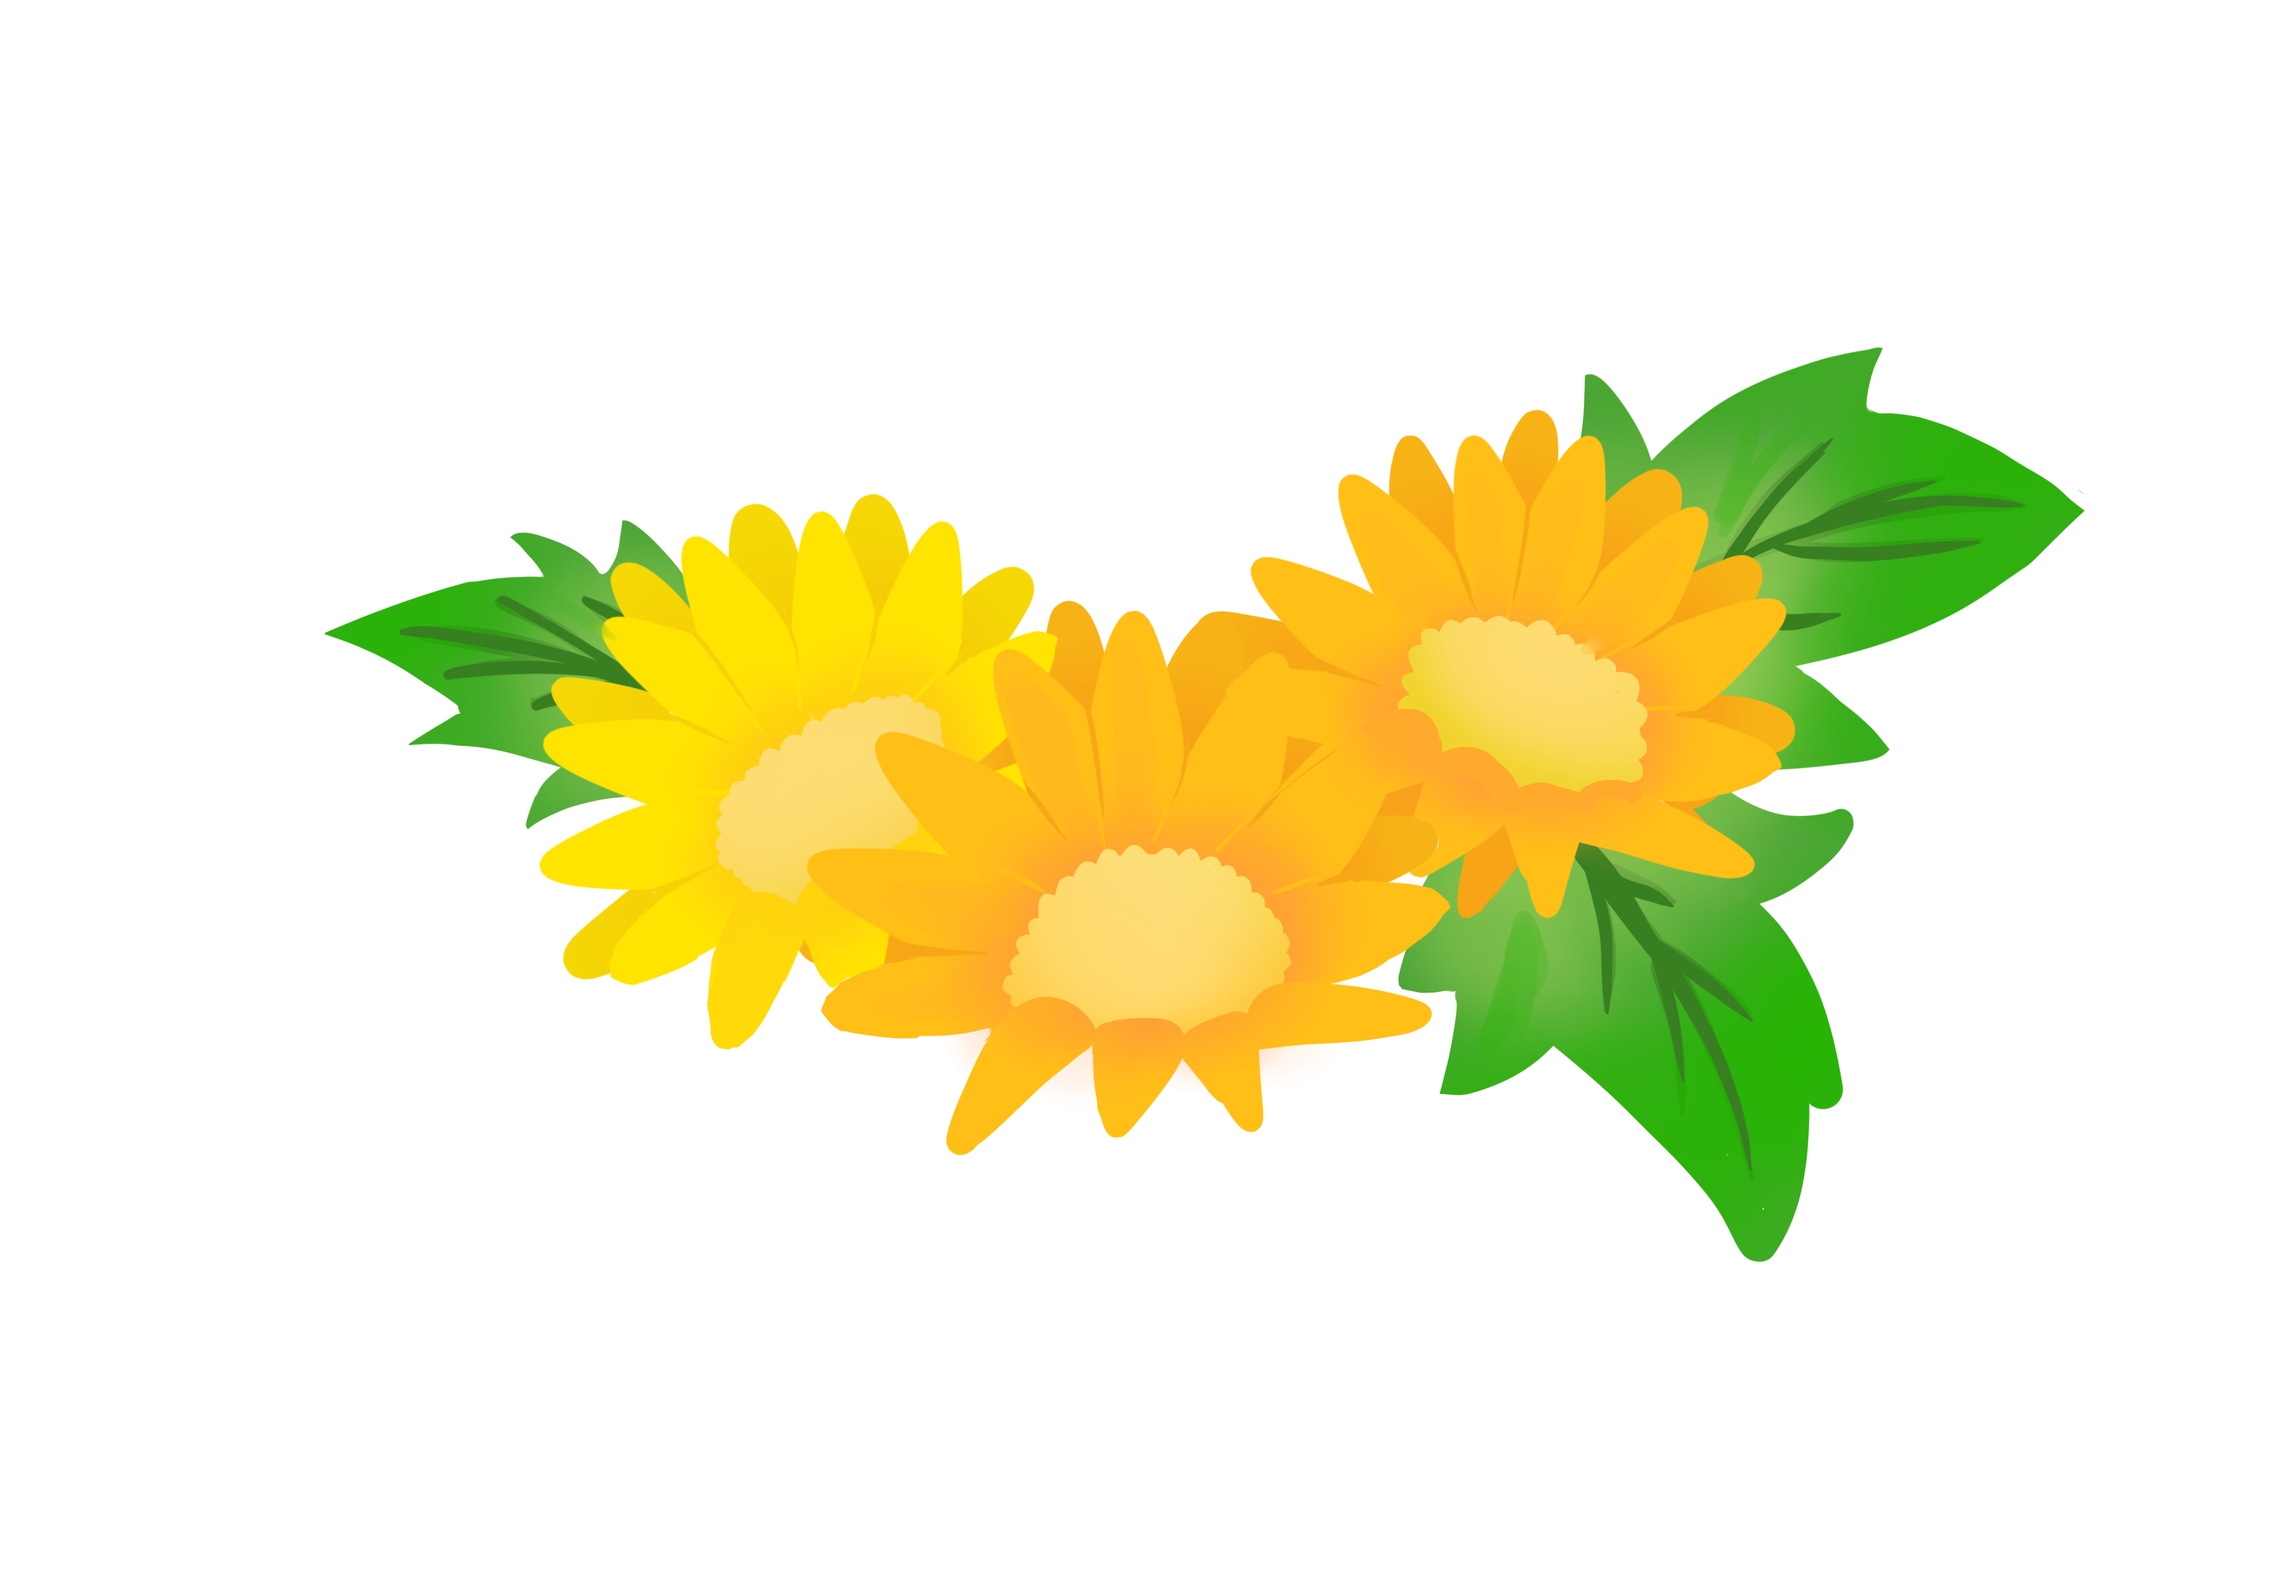
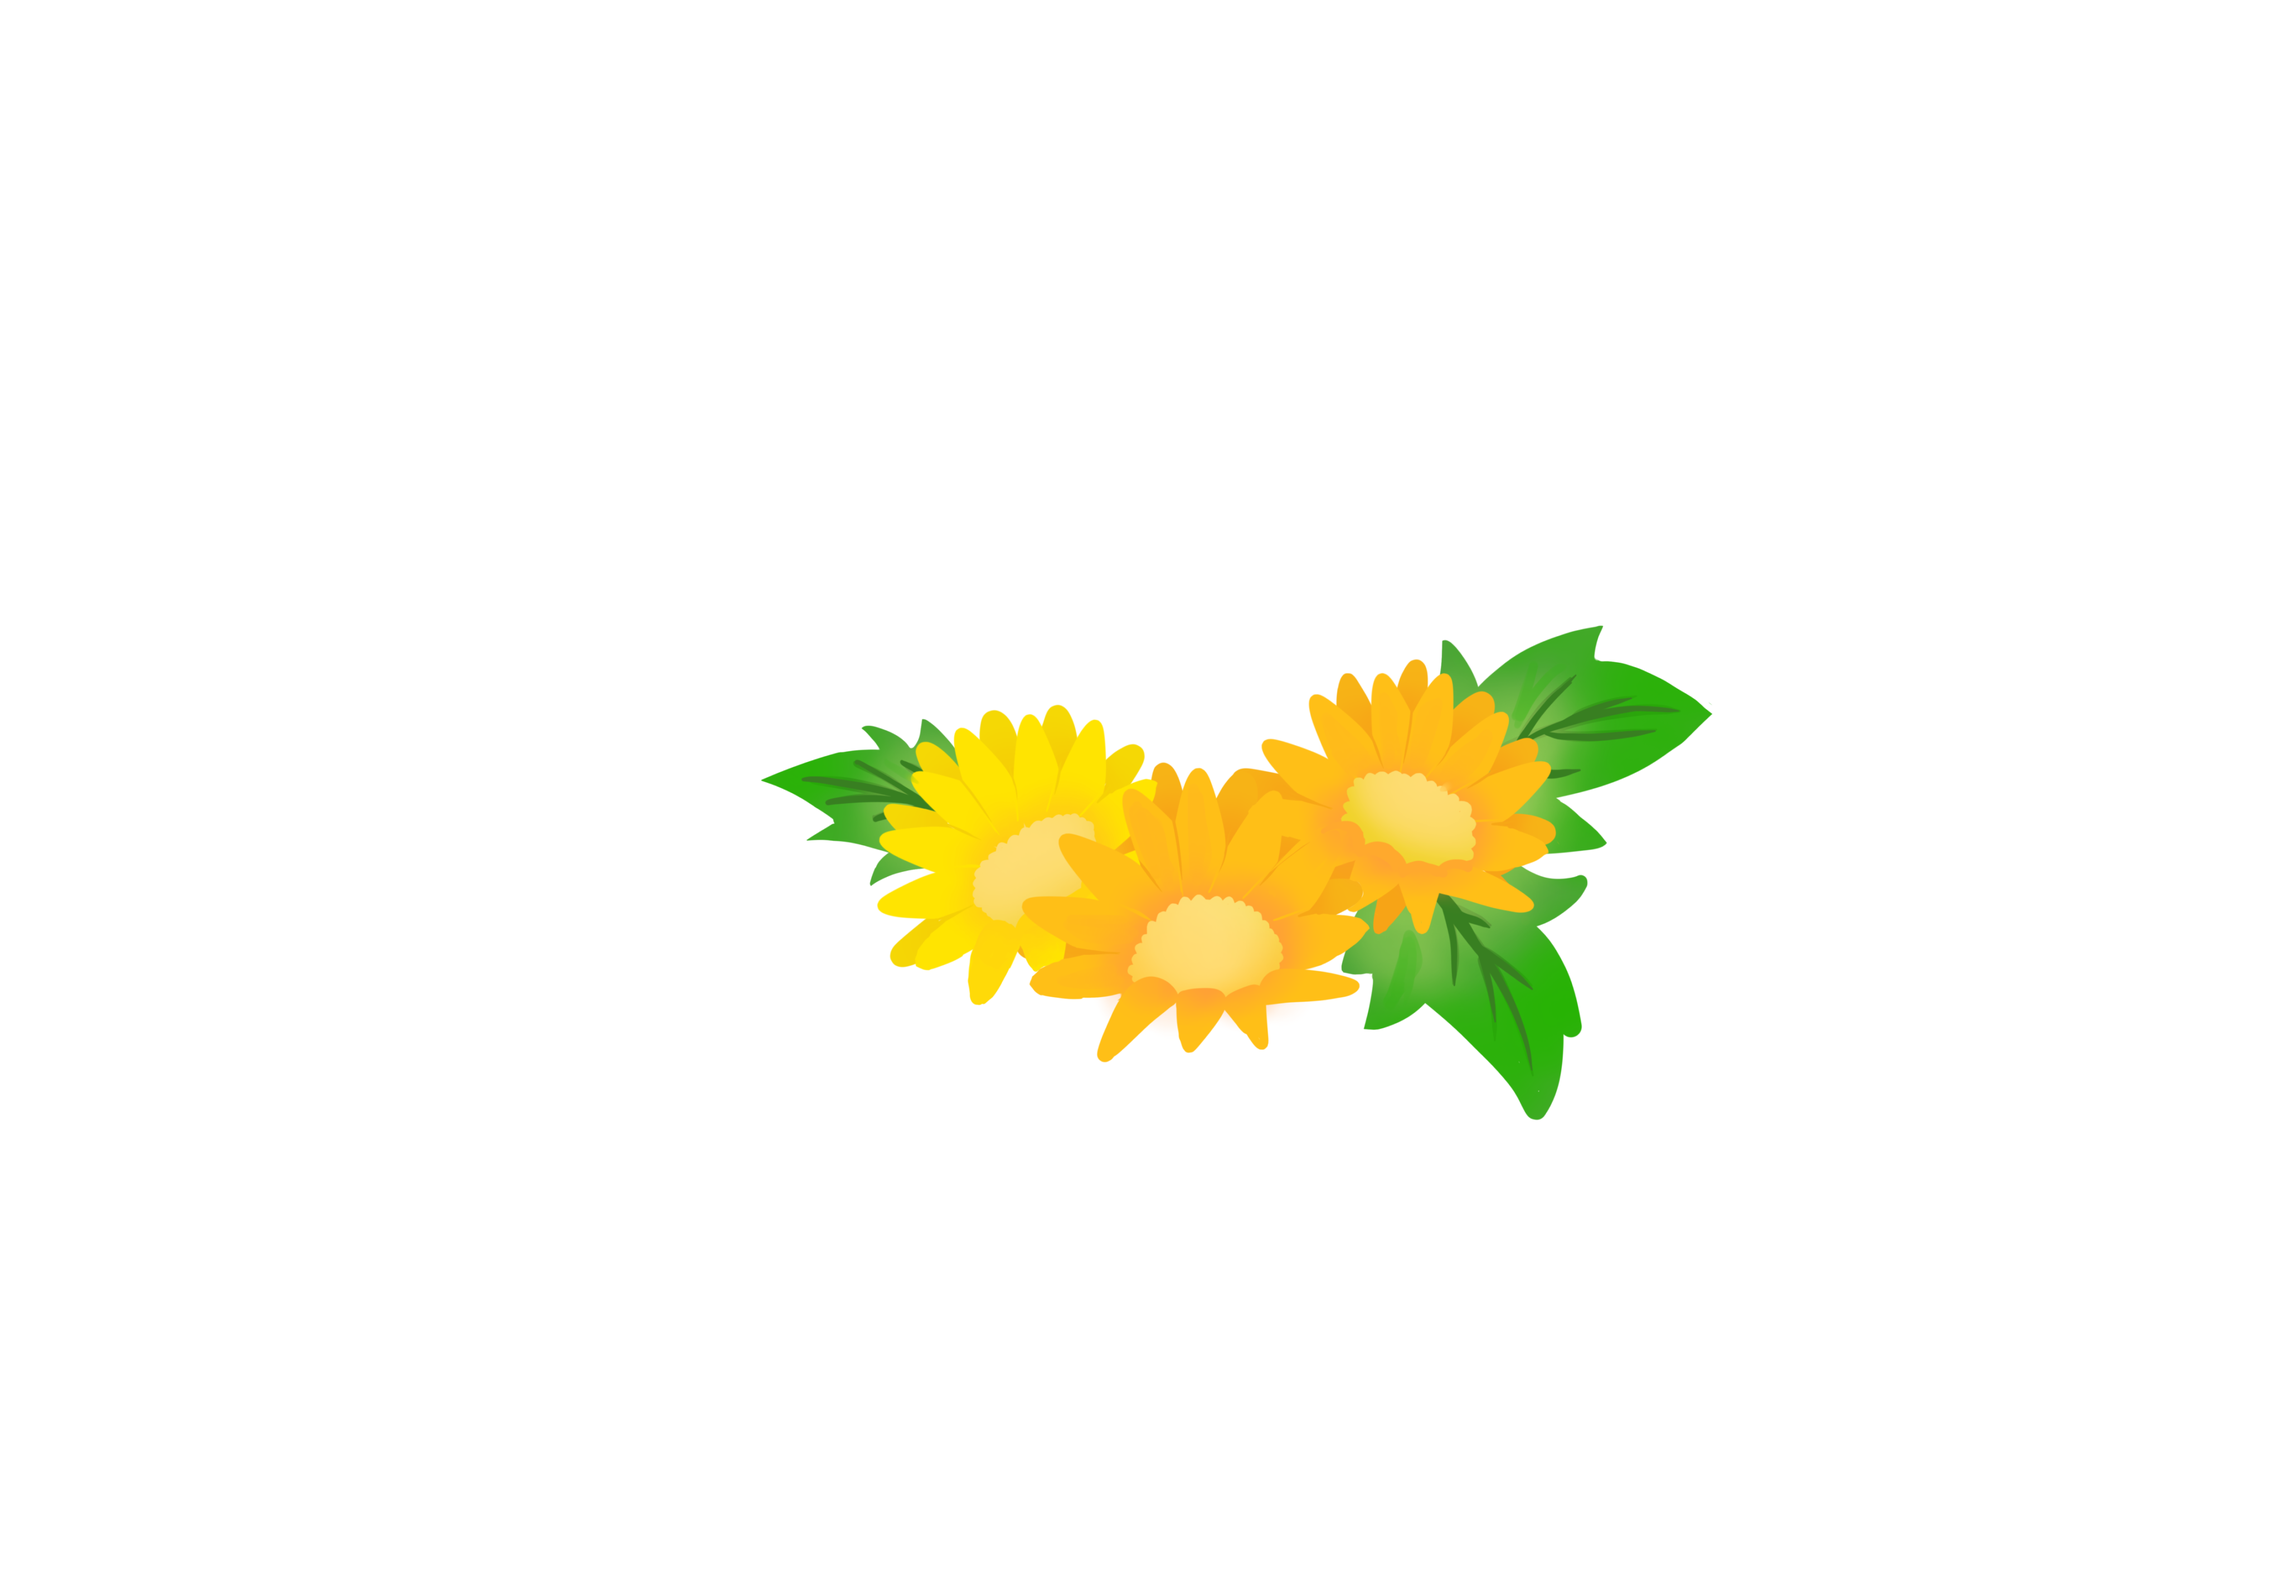
added pics of pot rendering and resized images

Changed region(s): [[0.125, 0.2164, 0.9062, 0.8037]]

diff --git a/src/data/pots.js b/src/data/pots.js
@@ -9,7 +9,9 @@ export const pots = [
   {
     id: 2,
     name: "Long pot (purple)",
-    image: new URL("../images/purple_pot.PNG", import.meta.url).href,
+    backImage: new URL("../images/purple_pot_back.png", import.meta.url).href,
+    frontImage: new URL("../images/purple_pot_front.png", import.meta.url).href,
+    image: new URL("../images/purple_pot_front.png", import.meta.url).href,
   },
   {
     id: 3,

diff --git a/index.css b/index.css
@@ -336,7 +336,7 @@ textarea {
 }
 
 .preview-flower {
-  height: 10rem;
+  height: 20rem;
 }
 
 .preview-pot {
@@ -358,7 +358,7 @@ textarea {
 
 .preview-flower-button {
   position: absolute;
-  width: 8rem;
+  width: 12rem;
   padding: 0;
   border: 0;
   background: transparent;
